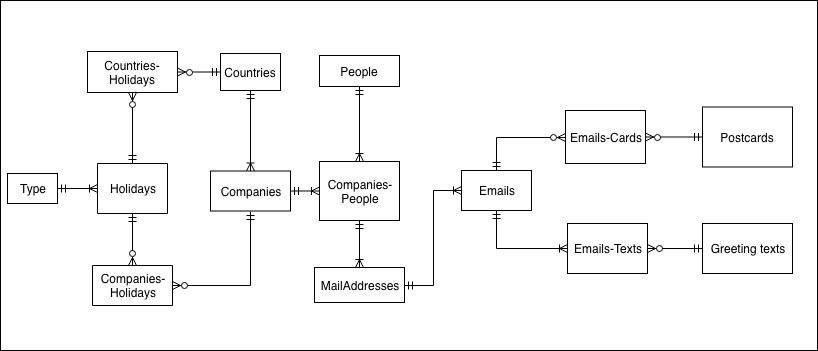
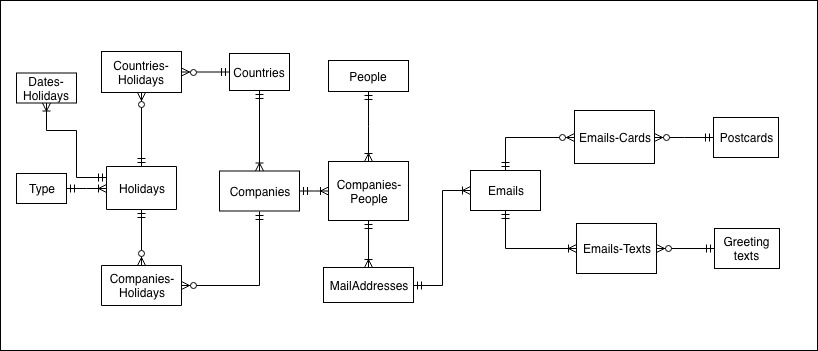
generate DatesHoliday

diff --git a/db/migrate/20190503120415_create_dates_holidays.rb b/db/migrate/20190503120415_create_dates_holidays.rb
@@ -1,0 +1,12 @@
+class CreateDatesHolidays < ActiveRecord::Migration[5.2]
+  def change
+    create_table :dates_holidays do |t|
+      t.integer  :day, null: false, default: 1
+      t.integer  :month, null: false, default: 1
+      t.integer  :year, null: false, default: 0
+      t.references :holiday, foreign_key: true, null: false
+      t.timestamps
+    end
+    add_index :dates_holidays, [:holiday_id, :day, :month, :year], unique: true
+  end
+end

diff --git a/test/models/dates_holiday_test.rb b/test/models/dates_holiday_test.rb
@@ -1,0 +1,7 @@
+require 'test_helper'
+
+class DatesHolidayTest < ActiveSupport::TestCase
+  # test "the truth" do
+  #   assert true
+  # end
+end

diff --git a/app/models/dates_holiday.rb b/app/models/dates_holiday.rb
@@ -1,0 +1,2 @@
+class DatesHoliday < ApplicationRecord
+end
